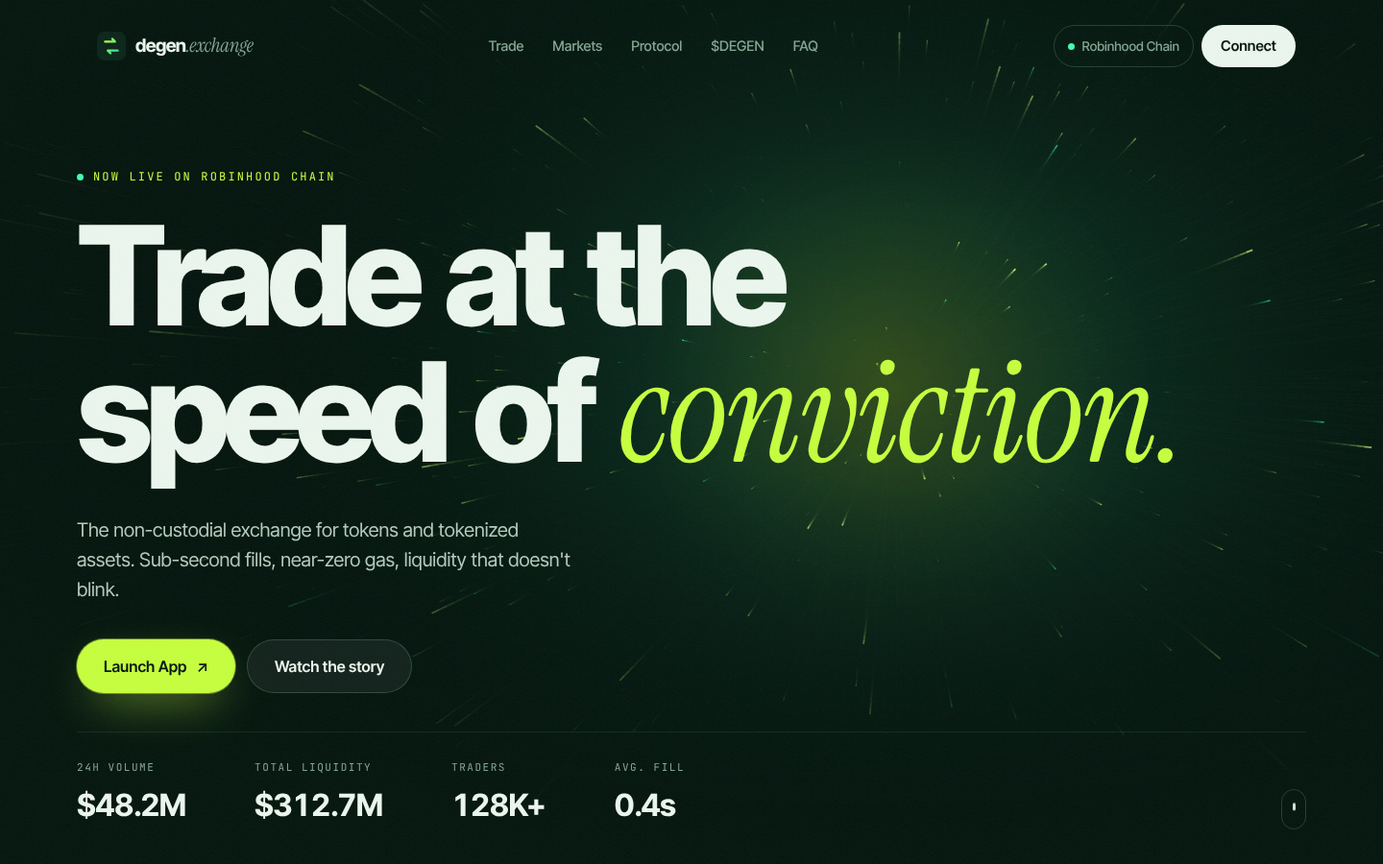
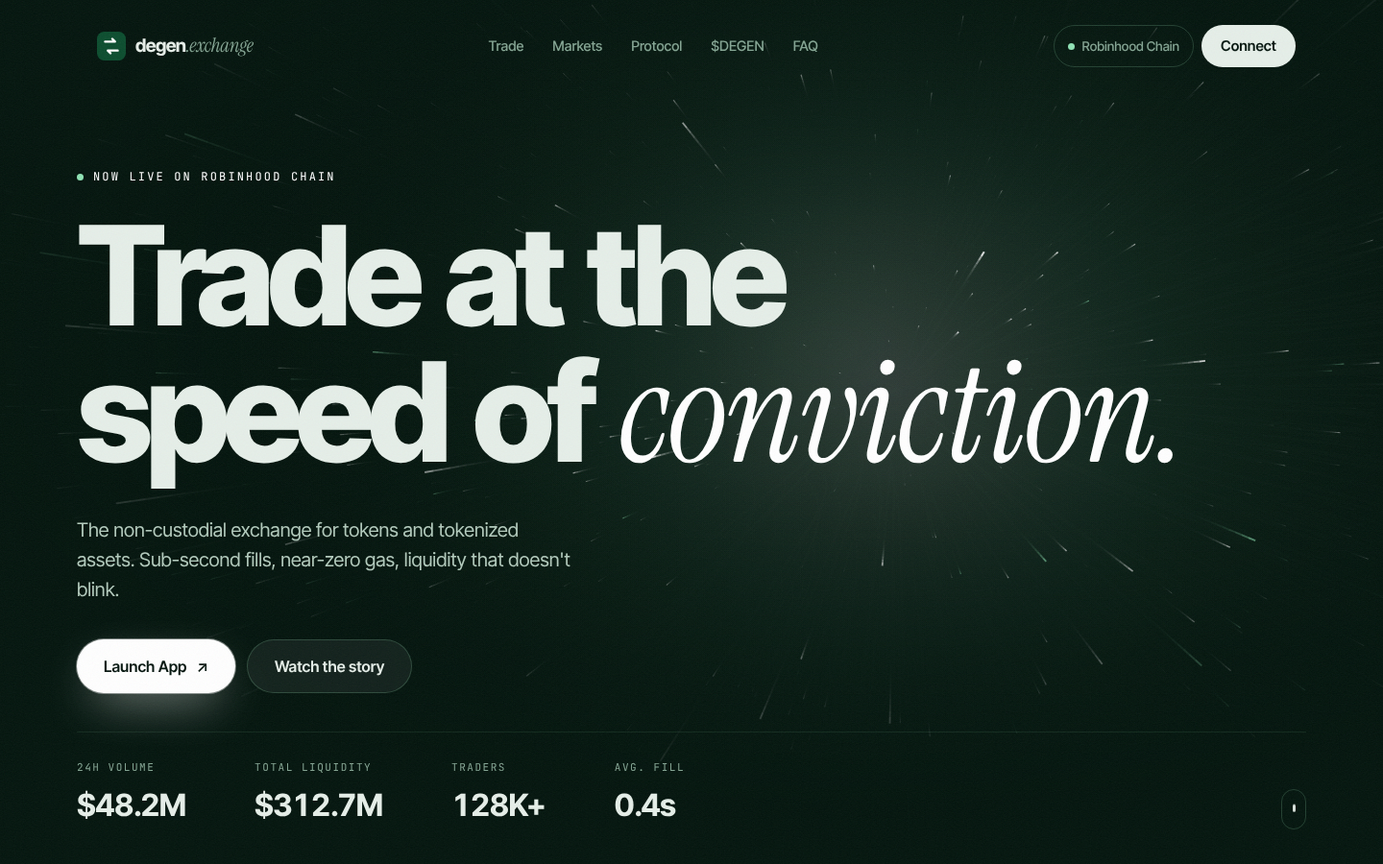
Use a white and dark green palette with alternating light sections
Dark sections use deep green with white type; manifesto, markets, how-it-works
and FAQ switch to white with dark green type. Colours are driven by CSS
variables so each section re-themes its components. The chart now plots the
bought token priced in the sold token.

Claude-Session: https://claude.ai/code/session_01WfjbhUyYSjU6GkJDwZG7tP

diff --git a/styles.css b/styles.css
@@ -5,13 +5,19 @@
   --panel-solid: #0a2418;
   --line: rgba(170, 255, 205, 0.09);
   --line-2: rgba(170, 255, 205, 0.18);
-  --text: #ecf7ef;
+  --text: #e6efe9;
   --muted: #84a593;
-  --accent: #c6ff3d;
-  --accent-2: #3dffb0;
+  --accent: #ffffff;
+  --accent-2: #8fe3b4;
   --ink: #03140d;
-  --up: #3dffb0;
-  --down: #ff5f7e;
+  --glow: 255, 255, 255;
+  --fg: 255, 255, 255;
+  --field: rgba(1, 14, 8, .42);
+  --dim: var(--dim);
+  --placeholder: var(--placeholder);
+  --shadow: 0 40px 120px -40px rgba(0,0,0,.9);
+  --up: #8fe3b4;
+  --down: #ff8a9e;
   --sans: "Inter Tight", system-ui, -apple-system, Segoe UI, Roboto, sans-serif;
   --serif: "Instrument Serif", Georgia, serif;
   --mono: "JetBrains Mono", ui-monospace, monospace;
@@ -57,7 +63,7 @@ em { font-family: var(--serif); font-style: italic; font-weight: 400; letter-spa
 }
 .cursor-glow {
   position: fixed; left: 0; top: 0; width: 520px; height: 520px; margin: -260px 0 0 -260px; z-index: 0; pointer-events: none;
-  background: radial-gradient(circle, rgba(198, 255, 61, .07), transparent 60%);
+  background: radial-gradient(circle, rgba(var(--glow), .07), transparent 60%);
   transform: translate3d(-999px, -999px, 0);
 }
 
@@ -86,26 +92,26 @@ em { font-family: var(--serif); font-style: italic; font-weight: 400; letter-spa
 .btn:active { transform: scale(.97); }
 .btn-lg { height: 56px; padding: 0 28px; font-size: 16px; }
 .btn-block { width: 100%; }
-.btn-accent { background: var(--accent); color: var(--ink); box-shadow: 0 0 0 1px rgba(198,255,61,.4), 0 18px 50px -18px rgba(198,255,61,.8); }
+.btn-accent { background: var(--accent); color: var(--ink); box-shadow: 0 0 0 1px rgba(var(--glow), .4), 0 18px 50px -18px rgba(var(--glow), .8); }
 .btn-accent::before {
   content: ""; position: absolute; inset: 0; z-index: -1;
   background: linear-gradient(110deg, transparent 30%, rgba(255,255,255,.55) 50%, transparent 70%);
   transform: translateX(-120%); transition: transform .8s var(--ease);
 }
 .btn-accent:hover::before { transform: translateX(120%); }
-.btn-accent:hover { box-shadow: 0 0 0 1px rgba(198,255,61,.6), 0 22px 60px -14px rgba(198,255,61,.95); }
+.btn-accent:hover { box-shadow: 0 0 0 1px rgba(var(--glow), .6), 0 22px 60px -14px rgba(var(--glow), .95); }
 .btn-accent:disabled { opacity: .4; cursor: not-allowed; box-shadow: none; }
-.btn-glass { background: rgba(255,255,255,.06); border: 1px solid var(--line-2); backdrop-filter: blur(12px); }
-.btn-glass:hover { background: rgba(255,255,255,.12); }
+.btn-glass { background: rgba(var(--fg), .06); border: 1px solid var(--line-2); backdrop-filter: blur(12px); }
+.btn-glass:hover { background: rgba(var(--fg), .12); }
 .btn-light { background: var(--text); color: var(--ink); }
 .btn-light:hover { background: #fff; }
-.btn-light.connected { background: rgba(255,255,255,.08); color: var(--text); border: 1px solid var(--line-2); font-family: var(--mono); font-size: 13px; }
+.btn-light.connected { background: rgba(var(--fg), .08); color: var(--text); border: 1px solid var(--line-2); font-family: var(--mono); font-size: 13px; }
 .icon-btn { width: 36px; height: 36px; display: grid; place-items: center; border-radius: 10px; color: var(--muted); transition: .2s; }
-.icon-btn:hover { background: rgba(255,255,255,.06); color: var(--text); }
+.icon-btn:hover { background: rgba(var(--fg), .06); color: var(--text); }
 
 .dot { width: 7px; height: 7px; border-radius: 50%; background: var(--accent-2); display: inline-block; flex: none; }
-.dot.live { box-shadow: 0 0 0 0 rgba(61,255,176,.6); animation: pulse 2s infinite; }
-@keyframes pulse { 70% { box-shadow: 0 0 0 9px rgba(61,255,176,0); } 100% { box-shadow: 0 0 0 0 rgba(61,255,176,0); } }
+.dot.live { box-shadow: 0 0 0 0 rgba(var(--glow), .6); animation: pulse 2s infinite; }
+@keyframes pulse { 70% { box-shadow: 0 0 0 9px rgba(var(--glow), 0); } 100% { box-shadow: 0 0 0 0 rgba(var(--glow), 0); } }
 
 /* ---------- nav ---------- */
 .nav {
@@ -120,7 +126,7 @@ em { font-family: var(--serif); font-style: italic; font-weight: 400; letter-spa
 .brand em { color: var(--muted); font-size: 1.08em; }
 .nav-links { display: flex; gap: 2px; margin: 0 auto; }
 .nav-links a { padding: 8px 14px; font-size: 14.5px; font-weight: 500; color: var(--muted); border-radius: 999px; transition: .2s; }
-.nav-links a:hover { color: var(--text); background: rgba(255,255,255,.05); }
+.nav-links a:hover { color: var(--text); background: rgba(var(--fg), .05); }
 .nav-actions { display: flex; align-items: center; gap: 8px; }
 .chain-pill {
   display: inline-flex; align-items: center; gap: 8px; height: 44px; padding: 0 14px; border-radius: 999px;
@@ -184,24 +190,50 @@ body.ready .hero-sub { transition-delay: .35s; } body.ready .hero-cta { transiti
 .section-head { margin-bottom: clamp(40px, 6vw, 72px); }
 .section-head.split { display: flex; justify-content: space-between; align-items: flex-end; gap: 32px; flex-wrap: wrap; }
 
+/* ---------- light sections ---------- */
+.light {
+  --bg: #f4f7f3;
+  --panel: #ffffff;
+  --panel-solid: #ffffff;
+  --line: rgba(6, 43, 26, 0.1);
+  --line-2: rgba(6, 43, 26, 0.2);
+  --text: #062b1a;
+  --muted: #56705f;
+  --accent: #0b4d2e;
+  --ink: #ffffff;
+  --glow: 11, 77, 46;
+  --fg: 6, 43, 26;
+  --field: #eef3ee;
+  --dim: #d3ddd6;
+  --placeholder: #c2cfc6;
+  --up: #0f7a45;
+  --down: #c8344f;
+  --shadow: 0 30px 80px -40px rgba(6, 43, 26, .28);
+  background: var(--bg);
+  color: var(--text);
+}
+.section.light { padding-bottom: clamp(100px, 14vw, 180px); }
+.light .btn-accent { box-shadow: 0 18px 40px -18px rgba(6, 43, 26, .6); }
+.light ::selection { background: var(--accent); color: #fff; }
+
 /* ---------- manifesto ---------- */
 .manifesto { padding: clamp(120px, 18vw, 240px) 0; }
 .manifesto-text { margin-top: 36px; font-size: clamp(30px, 4.6vw, 68px); font-weight: 600; line-height: 1.12; letter-spacing: -0.035em; max-width: 1180px; }
-.manifesto-text .w { color: #14382a; transition: color .5s ease; }
+.manifesto-text .w { color: var(--dim); transition: color .5s ease; }
 .manifesto-text .w.on { color: var(--text); }
 .manifesto-text .w.hl.on { color: var(--accent); font-family: var(--serif); font-style: italic; font-weight: 400; }
 
 /* ---------- panels ---------- */
 .panel {
   position: relative; background: var(--panel); border: 1px solid var(--line); border-radius: 28px;
-  backdrop-filter: blur(20px) saturate(140%); box-shadow: 0 40px 120px -40px rgba(0,0,0,.9), inset 0 1px 0 rgba(255,255,255,.04);
+  backdrop-filter: blur(20px) saturate(140%); box-shadow: var(--shadow), inset 0 1px 0 rgba(var(--fg), .04);
 }
 
 /* ---------- terminal ---------- */
 .app-section { position: relative; padding-top: 40px; }
 .app-section::before {
   content: ""; position: absolute; left: 50%; top: 30%; width: min(1100px, 120vw); height: 700px; transform: translateX(-50%); pointer-events: none;
-  background: radial-gradient(ellipse at center, rgba(198,255,61,.12), rgba(61,255,176,.05) 40%, transparent 70%); filter: blur(30px);
+  background: radial-gradient(ellipse at center, rgba(var(--glow), .12), rgba(var(--glow), .05) 40%, transparent 70%); filter: blur(30px);
 }
 .terminal { position: relative; display: grid; grid-template-columns: 1.35fr 1fr; gap: 16px; align-items: stretch; }
 .terminal > * { min-width: 0; }
@@ -210,9 +242,9 @@ body.ready .hero-sub { transition-delay: .35s; } body.ready .hero-cta { transiti
 .pair { display: flex; align-items: center; gap: 12px; font-weight: 700; font-size: 18px; }
 .pair .icons { display: flex; }
 .pair .icons .tk-icon + .tk-icon { margin-left: -8px; box-shadow: 0 0 0 2px var(--panel-solid); }
-.tf { display: flex; padding: 3px; border-radius: 999px; background: rgba(1,14,8,.42); border: 1px solid var(--line); }
+.tf { display: flex; padding: 3px; border-radius: 999px; background: var(--field); border: 1px solid var(--line); }
 .tf button { padding: 5px 12px; border-radius: 999px; font-size: 12.5px; font-family: var(--mono); color: var(--muted); }
-.tf button.active { background: rgba(255,255,255,.1); color: var(--text); }
+.tf button.active { background: rgba(var(--fg), .1); color: var(--text); }
 .chart-price { display: flex; align-items: baseline; gap: 12px; margin: 22px 0 8px; flex-wrap: wrap; }
 .chart-price b { font-size: clamp(32px, 3.4vw, 46px); letter-spacing: -0.04em; font-variant-numeric: tabular-nums; }
 .chart-price span { font-family: var(--mono); font-size: 14px; }
@@ -225,26 +257,26 @@ body.ready .hero-sub { transition-delay: .35s; } body.ready .hero-cta { transiti
 .swap-head { display: flex; justify-content: space-between; align-items: center; padding: 4px 4px 12px; }
 .tabs { display: flex; gap: 2px; }
 .tab { padding: 7px 14px; border-radius: 999px; font-weight: 600; font-size: 15px; color: var(--muted); transition: .2s; }
-.tab.active { color: var(--text); background: rgba(255,255,255,.08); }
+.tab.active { color: var(--text); background: rgba(var(--fg), .08); }
 .tab:not(.active):hover { color: var(--text); }
 .settings { display: flex; flex-wrap: wrap; gap: 10px; align-items: center; justify-content: space-between; padding: 6px 8px 14px; font-size: 14px; color: var(--muted); }
 .slip { display: flex; gap: 6px; flex-wrap: wrap; }
 .slip button, .slip-custom { height: 32px; padding: 0 11px; border-radius: 999px; border: 1px solid var(--line-2); font-size: 13px; font-weight: 600; display: inline-flex; align-items: center; }
 .slip button.active { background: var(--accent); color: var(--ink); border-color: var(--accent); }
 .slip-custom input { width: 54px; background: none; border: 0; outline: 0; text-align: right; }
-.field { background: rgba(1,14,8,.45); border: 1px solid var(--line); border-radius: 20px; padding: 16px 18px; transition: border-color .25s, box-shadow .25s; }
-.field:focus-within { border-color: rgba(198,255,61,.35); box-shadow: 0 0 0 4px rgba(198,255,61,.06); }
+.field { background: var(--field); border: 1px solid var(--line); border-radius: 20px; padding: 16px 18px; transition: border-color .25s, box-shadow .25s; }
+.field:focus-within { border-color: rgba(var(--glow), .35); box-shadow: 0 0 0 4px rgba(var(--glow), .06); }
 .field-top, .field-bot { display: flex; justify-content: space-between; font-size: 13px; color: var(--muted); }
 .field-row { display: flex; align-items: center; gap: 12px; margin: 8px 0; }
 .field-row input { flex: 1; min-width: 0; background: none; border: 0; outline: 0; font-size: 38px; font-weight: 600; letter-spacing: -0.035em; font-variant-numeric: tabular-nums; }
-.field-row input::placeholder { color: #1f4a35; }
+.field-row input::placeholder { color: var(--placeholder); }
 .quick { display: flex; gap: 6px; }
-.quick button { font-size: 11.5px; font-family: var(--mono); padding: 2px 8px; border-radius: 6px; background: rgba(255,255,255,.06); color: var(--muted); }
+.quick button { font-size: 11.5px; font-family: var(--mono); padding: 2px 8px; border-radius: 6px; background: rgba(var(--fg), .06); color: var(--muted); }
 .quick button:hover { color: var(--accent); }
-.token-btn { flex: none; display: inline-flex; align-items: center; gap: 8px; height: 42px; padding: 0 14px 0 6px; border-radius: 999px; background: rgba(255,255,255,.07); border: 1px solid var(--line); font-weight: 700; transition: background .2s; }
-.token-btn:hover { background: rgba(255,255,255,.13); }
+.token-btn { flex: none; display: inline-flex; align-items: center; gap: 8px; height: 42px; padding: 0 14px 0 6px; border-radius: 999px; background: rgba(var(--fg), .07); border: 1px solid var(--line); font-weight: 700; transition: background .2s; }
+.token-btn:hover { background: rgba(var(--fg), .13); }
 .token-btn::after { content: ""; width: 6px; height: 6px; border-right: 1.8px solid currentColor; border-bottom: 1.8px solid currentColor; transform: rotate(45deg) translateY(-3px); margin-left: 2px; opacity: .6; }
-.tk-icon { width: 30px; height: 30px; border-radius: 50%; display: grid; place-items: center; font-size: 10px; font-weight: 800; color: #070907; flex: none; letter-spacing: -0.02em; }
+.tk-icon { width: 30px; height: 30px; border-radius: 50%; box-shadow: inset 0 0 0 1px rgba(3,20,13,.12); display: grid; place-items: center; font-size: 10px; font-weight: 800; color: #070907; flex: none; letter-spacing: -0.02em; }
 .flip { display: grid; place-items: center; width: 42px; height: 42px; margin: -13px auto; position: relative; z-index: 2; background: var(--panel-solid); border: 4px solid #061a11; border-radius: 14px; color: var(--muted); transition: transform .5s var(--ease), color .2s; }
 .flip:hover { color: var(--accent); transform: rotate(180deg); }
 .quote { margin-top: 12px; padding: 14px 16px; border-radius: 18px; border: 1px solid var(--line); display: grid; gap: 7px; font-size: 13.5px; }
@@ -258,16 +290,16 @@ body.ready .hero-sub { transition-delay: .35s; } body.ready .hero-cta { transiti
 /* ---------- markets ---------- */
 .table-panel { padding: 8px; }
 .table-tools { display: flex; justify-content: space-between; gap: 12px; padding: 12px; flex-wrap: wrap; }
-.seg { display: flex; padding: 4px; border-radius: 999px; background: rgba(1,14,8,.42); border: 1px solid var(--line); }
+.seg { display: flex; padding: 4px; border-radius: 999px; background: var(--field); border: 1px solid var(--line); }
 .seg button { padding: 7px 16px; border-radius: 999px; font-size: 14px; font-weight: 600; color: var(--muted); transition: .2s; }
-.seg button.active { background: rgba(255,255,255,.1); color: var(--text); }
-#marketSearch, #tokenSearch { height: 44px; padding: 0 18px; border-radius: 999px; border: 1px solid var(--line-2); background: rgba(1,14,8,.42); outline: 0; min-width: 240px; transition: border-color .2s; }
+.seg button.active { background: rgba(var(--fg), .1); color: var(--text); }
+#marketSearch, #tokenSearch { height: 44px; padding: 0 18px; border-radius: 999px; border: 1px solid var(--line-2); background: var(--field); outline: 0; min-width: 240px; transition: border-color .2s; }
 #marketSearch:focus, #tokenSearch:focus { border-color: var(--accent); }
 .table-scroll { overflow-x: auto; }
 .markets { width: 100%; border-collapse: collapse; font-variant-numeric: tabular-nums; }
 .markets th { text-align: left; font-family: var(--mono); font-size: 11px; color: var(--muted); font-weight: 500; text-transform: uppercase; letter-spacing: .12em; padding: 12px 16px; }
 .markets td { padding: 16px; border-top: 1px solid var(--line); font-size: 15px; transition: background .2s; }
-.markets tbody tr:hover td { background: rgba(255,255,255,.025); }
+.markets tbody tr:hover td { background: rgba(var(--fg), .025); }
 .markets .r { text-align: right; }
 .markets .tok { display: flex; align-items: center; gap: 12px; }
 .markets .tok small { display: block; color: var(--muted); font-size: 13px; }
@@ -281,12 +313,12 @@ body.ready .hero-sub { transition-delay: .35s; } body.ready .hero-cta { transiti
 .features { display: grid; grid-template-columns: repeat(3, 1fr); grid-auto-rows: minmax(240px, auto); gap: 16px; }
 .feat {
   position: relative; padding: 32px; border-radius: 28px; overflow: hidden;
-  background: linear-gradient(180deg, rgba(255,255,255,.04), rgba(255,255,255,.01)); border: 1px solid var(--line);
+  background: linear-gradient(180deg, rgba(var(--fg), .04), rgba(var(--fg), .01)); border: 1px solid var(--line);
   transition: border-color .4s, transform .5s var(--ease), opacity 1.1s var(--ease), filter 1.1s var(--ease);
 }
 .feat::after {
   content: ""; position: absolute; inset: 0; pointer-events: none; opacity: 0; transition: opacity .4s;
-  background: radial-gradient(500px circle at var(--mx, 50%) var(--my, 50%), rgba(198,255,61,.1), transparent 40%);
+  background: radial-gradient(500px circle at var(--mx, 50%) var(--my, 50%), rgba(var(--glow), .1), transparent 40%);
 }
 .feat:hover { border-color: var(--line-2); }
 .feat:hover::after { opacity: 1; }
@@ -296,10 +328,10 @@ body.ready .hero-sub { transition-delay: .35s; } body.ready .hero-cta { transiti
 .feat-hero { grid-row: span 2; display: flex; flex-direction: column; }
 .feat-hero h3 { font-size: clamp(30px, 3vw, 44px); }
 .latency { position: relative; margin-top: auto; height: 260px; display: grid; place-items: center; }
-.lat-ring { position: absolute; width: 120px; height: 120px; border-radius: 50%; border: 1px solid rgba(198,255,61,.5); animation: ripple 3s var(--ease) infinite; }
+.lat-ring { position: absolute; width: 120px; height: 120px; border-radius: 50%; border: 1px solid rgba(var(--glow), .5); animation: ripple 3s var(--ease) infinite; }
 .lat-ring.r2 { animation-delay: 1s; } .lat-ring.r3 { animation-delay: 2s; }
 @keyframes ripple { from { transform: scale(.6); opacity: 1; } to { transform: scale(2.4); opacity: 0; } }
-.lat-core { position: relative; width: 120px; height: 120px; border-radius: 50%; display: grid; place-content: center; text-align: center; background: radial-gradient(circle at 30% 30%, #e2ff9a, var(--accent) 45%, #6fb300); color: var(--ink); box-shadow: 0 0 80px rgba(198,255,61,.45); }
+.lat-core { position: relative; width: 120px; height: 120px; border-radius: 50%; display: grid; place-content: center; text-align: center; background: radial-gradient(circle at 30% 30%, #ffffff, #e3ece6 55%, #a9c2b3); color: var(--ink); box-shadow: 0 0 80px rgba(var(--glow), .45); }
 .lat-core b { font-size: 30px; letter-spacing: -0.04em; line-height: 1; }
 .lat-core span { font-size: 11px; font-weight: 600; }
 
@@ -326,11 +358,11 @@ body.ready .hero-sub { transition-delay: .35s; } body.ready .hero-cta { transiti
 .orbit-ring i { position: absolute; top: -6px; left: 50%; width: 12px; height: 12px; margin-left: -6px; border-radius: 50%; background: var(--accent); box-shadow: 0 0 24px var(--accent); }
 .orbit-ring.o1 { inset: 0; }
 .orbit-ring.o2 { inset: 14%; animation-duration: 16s; animation-direction: reverse; border-style: dashed; }
-.orbit-ring.o2 i { background: #8fb3ff; box-shadow: 0 0 24px #8fb3ff; }
+.orbit-ring.o2 i { background: #8fe3b4; box-shadow: 0 0 24px #8fe3b4; }
 .orbit-ring.o3 { inset: 28%; animation-duration: 11s; }
-.orbit-ring.o3 i { background: #d6a8ff; box-shadow: 0 0 24px #d6a8ff; }
+.orbit-ring.o3 i { background: #4fa77a; box-shadow: 0 0 24px #4fa77a; }
 @keyframes orbit { to { transform: rotate(360deg); } }
-.coin { position: relative; width: 38%; aspect-ratio: 1; border-radius: 50%; display: grid; place-content: center; justify-items: center; text-align: center; gap: 4px; background: radial-gradient(circle at 30% 25%, #104330, #05170e 70%); border: 1px solid var(--line-2); box-shadow: 0 0 120px rgba(198,255,61,.2), inset 0 1px 0 rgba(255,255,255,.08); }
+.coin { position: relative; width: 38%; aspect-ratio: 1; border-radius: 50%; display: grid; place-content: center; justify-items: center; text-align: center; gap: 4px; background: radial-gradient(circle at 30% 25%, #104330, #05170e 70%); border: 1px solid var(--line-2); box-shadow: 0 0 120px rgba(var(--glow), .2), inset 0 1px 0 rgba(var(--fg), .08); }
 .coin img { width: 44px; height: 44px; }
 .coin span { font-weight: 700; font-size: clamp(13px, 1.6vw, 19px); letter-spacing: -0.02em; }
 .coin small { color: var(--muted); font-size: 12px; }
@@ -348,11 +380,11 @@ body.ready .hero-sub { transition-delay: .35s; } body.ready .hero-cta { transiti
 
 /* ---------- finale ---------- */
 .finale { position: relative; text-align: center; padding: clamp(140px, 18vw, 240px) 20px 0; overflow: hidden; }
-.finale-glow { position: absolute; left: 50%; bottom: -30%; width: 1200px; height: 800px; transform: translateX(-50%); background: radial-gradient(ellipse at center, rgba(198,255,61,.22), rgba(61,255,176,.08) 40%, transparent 70%); pointer-events: none; filter: blur(20px); }
+.finale-glow { position: absolute; left: 50%; bottom: -30%; width: 1200px; height: 800px; transform: translateX(-50%); background: radial-gradient(ellipse at center, rgba(var(--glow), .22), rgba(var(--glow), .08) 40%, transparent 70%); pointer-events: none; filter: blur(20px); }
 .finale .chapter::before { display: none; }
 .finale-title { position: relative; font-size: clamp(52px, 9vw, 140px); font-weight: 800; letter-spacing: -0.055em; line-height: .9; margin: 24px 0 44px; }
 .finale-title em { color: var(--accent); }
-.finale-word { position: relative; margin-top: clamp(60px, 10vw, 120px); font-size: clamp(90px, 27vw, 420px); font-weight: 900; letter-spacing: -0.045em; line-height: .78; color: transparent; user-select: none; background: linear-gradient(180deg, rgba(198,255,61,.25), transparent 80%); -webkit-background-clip: text; background-clip: text; }
+.finale-word { position: relative; margin-top: clamp(60px, 10vw, 120px); font-size: clamp(90px, 27vw, 420px); font-weight: 900; letter-spacing: -0.045em; line-height: .78; color: transparent; user-select: none; background: linear-gradient(180deg, rgba(var(--glow), .25), transparent 80%); -webkit-background-clip: text; background-clip: text; }
 
 /* ---------- footer ---------- */
 .footer { border-top: 1px solid var(--line); padding: 56px 0 32px; }
@@ -374,11 +406,11 @@ body.ready .hero-sub { transition-delay: .35s; } body.ready .hero-cta { transiti
 #tokenSearch { width: 100%; min-width: 0; }
 .chips { display: flex; flex-wrap: wrap; gap: 8px; margin: 14px 0; }
 .chips button { display: inline-flex; align-items: center; gap: 6px; padding: 4px 12px 4px 4px; border-radius: 999px; border: 1px solid var(--line-2); font-weight: 600; font-size: 14px; }
-.chips button:hover { background: rgba(255,255,255,.06); }
+.chips button:hover { background: rgba(var(--fg), .06); }
 .chips .tk-icon { width: 24px; height: 24px; font-size: 8px; }
 .token-list { list-style: none; margin: 0 -20px -20px; padding: 0 8px 8px; overflow-y: auto; border-top: 1px solid var(--line); }
 .token-list button { width: 100%; display: flex; align-items: center; gap: 12px; padding: 11px 12px; border-radius: 14px; text-align: left; }
-.token-list button:hover:not(:disabled) { background: rgba(255,255,255,.05); }
+.token-list button:hover:not(:disabled) { background: rgba(var(--fg), .05); }
 .token-list button:disabled { opacity: .35; cursor: default; }
 .token-list .tk-icon { width: 38px; height: 38px; font-size: 11px; }
 .token-list small { display: block; color: var(--muted); font-size: 13px; }

diff --git a/app.js b/app.js
@@ -18,7 +18,7 @@
   const TOKENS = [
     { sym: "ETH", name: "Ether", price: 3842.15, chg: 2.41, vol: 18.4e6, liq: 96.2e6, color: "#9fb4ff" },
     { sym: "USDC", name: "USD Coin", price: 1.0, chg: 0.01, vol: 12.1e6, liq: 84.5e6, color: "#5aa2ff" },
-    { sym: "DEGEN", name: "degen.exchange", price: 0.4821, chg: 18.73, vol: 6.9e6, liq: 21.3e6, color: "#c6ff3d" },
+    { sym: "DEGEN", name: "degen.exchange", price: 0.4821, chg: 18.73, vol: 6.9e6, liq: 21.3e6, color: "#0b4d2e", ink: "#ffffff" },
     { sym: "WETH", name: "Wrapped Ether", price: 3842.15, chg: 2.41, vol: 3.2e6, liq: 30.8e6, color: "#c3cbe0" },
     { sym: "TSLA", name: "Tesla (tokenized)", price: 251.37, chg: -1.84, vol: 2.7e6, liq: 14.1e6, color: "#ff5f7e" },
     { sym: "NVDA", name: "NVIDIA (tokenized)", price: 138.92, chg: 3.27, vol: 2.4e6, liq: 12.9e6, color: "#76d672" },
@@ -76,7 +76,7 @@
   const short = (a) => a.slice(0, 6) + "…" + a.slice(-4);
 
   const icon = (t) =>
-    `<span class="tk-icon" style="background:${t.color}">${t.sym.slice(0, t.sym.length > 4 ? 3 : 4)}</span>`;
+    `<span class="tk-icon" style="background:${t.color}${t.ink ? ";color:" + t.ink : ""}">${t.sym.slice(0, t.sym.length > 4 ? 3 : 4)}</span>`;
 
   let toastTimer;
   function toast(msg) {
@@ -158,8 +158,8 @@
 
       // horizon glow
       const g = ctx.createRadialGradient(ox, oy, 0, ox, oy, Math.max(w, h) * 0.55);
-      g.addColorStop(0, "rgba(198,255,61,0.10)");
-      g.addColorStop(0.35, "rgba(61,255,176,0.035)");
+      g.addColorStop(0, "rgba(255,255,255,0.07)");
+      g.addColorStop(0.35, "rgba(143,227,180,0.035)");
       g.addColorStop(1, "rgba(0,0,0,0)");
       ctx.fillStyle = g;
       ctx.fillRect(0, 0, w, h);
@@ -176,7 +176,7 @@
         const py = oy + (s.y / s.pz) * scale;
         if (sx < -50 || sx > w + 50 || sy < -50 || sy > h + 50) { spawn(s, true); continue; }
         const a = Math.min(1, (1 - s.z) * 1.4);
-        ctx.strokeStyle = s.hue ? `rgba(61,255,176,${a})` : `rgba(214,255,120,${a})`;
+        ctx.strokeStyle = s.hue ? `rgba(143,227,180,${a})` : `rgba(255,255,255,${a})`;
         ctx.lineWidth = (1 - s.z) * 2.2;
         ctx.beginPath();
         ctx.moveTo(px, py);
@@ -451,7 +451,8 @@
   }
 
   function renderChart(animate) {
-    const from = bySym[state.from], to = bySym[state.to];
+    // chart the token being bought, priced in the token being sold
+    const from = bySym[state.to], to = bySym[state.from];
     chartSeries = seriesFor(from, to, state.tf);
     const first = chartSeries[0], last = chartSeries[chartSeries.length - 1];
     const chg = ((last - first) / first) * 100;
@@ -492,7 +493,7 @@
     const X = (i) => (i / (s.length - 1)) * w;
     const Y = (v) => h - ((v - lo) / (hi - lo)) * h;
     const up = s[s.length - 1] >= s[0];
-    const col = up ? "61,255,176" : "255,95,126";
+    const col = up ? "143,227,180" : "255,138,158";
     const ease = 1 - Math.pow(1 - chartAnim, 3);
     const n = Math.max(2, Math.ceil(s.length * ease));
 

diff --git a/index.html b/index.html
@@ -81,7 +81,7 @@
     <div class="ticker" aria-label="Live prices"><div class="ticker-track" id="ticker"></div></div>
 
     <!-- MANIFESTO -->
-    <section class="manifesto" id="manifesto">
+    <section class="manifesto light" id="manifesto">
       <div class="wrap">
         <span class="chapter">Chapter 01 — The thesis</span>
         <p class="manifesto-text" id="manifestoText">Markets never sleep. Neither should your edge. We built degen.exchange for people who move first — a venue where every token, every tokenized stock, every idea is one signature away. No gatekeepers. No custody. Just you, the chain, and the trade.</p>
@@ -179,7 +179,7 @@
     </section>
 
     <!-- MARKETS -->
-    <section class="section" id="markets">
+    <section class="section light" id="markets">
       <div class="wrap">
         <div class="section-head split">
           <div>
@@ -249,7 +249,7 @@
     </section>
 
     <!-- HOW -->
-    <section class="section" id="how">
+    <section class="section light" id="how">
       <div class="wrap">
         <div class="section-head">
           <span class="chapter">Chapter 05 — The ritual</span>
@@ -273,9 +273,9 @@
             <p class="lede">Governance and utility for the protocol. Holders steer the roadmap, earn fee discounts and share in protocol revenue.</p>
             <ul class="alloc">
               <li style="--c:var(--accent)"><b>40%</b><span>Community &amp; LP incentives</span></li>
-              <li style="--c:#7cf5c8"><b>25%</b><span>Treasury</span></li>
-              <li style="--c:#8fb3ff"><b>20%</b><span>Core contributors · 4y vest</span></li>
-              <li style="--c:#d6a8ff"><b>15%</b><span>Initial liquidity</span></li>
+              <li style="--c:#8fe3b4"><b>25%</b><span>Treasury</span></li>
+              <li style="--c:#4fa77a"><b>20%</b><span>Core contributors · 4y vest</span></li>
+              <li style="--c:#2f7a55"><b>15%</b><span>Initial liquidity</span></li>
             </ul>
           </div>
           <div class="orbit" aria-hidden="true">
@@ -289,7 +289,7 @@
     </section>
 
     <!-- FAQ -->
-    <section class="section" id="faq">
+    <section class="section light" id="faq">
       <div class="wrap faq-wrap">
         <div class="section-head">
           <span class="chapter">Chapter 07 — The fine print</span>
